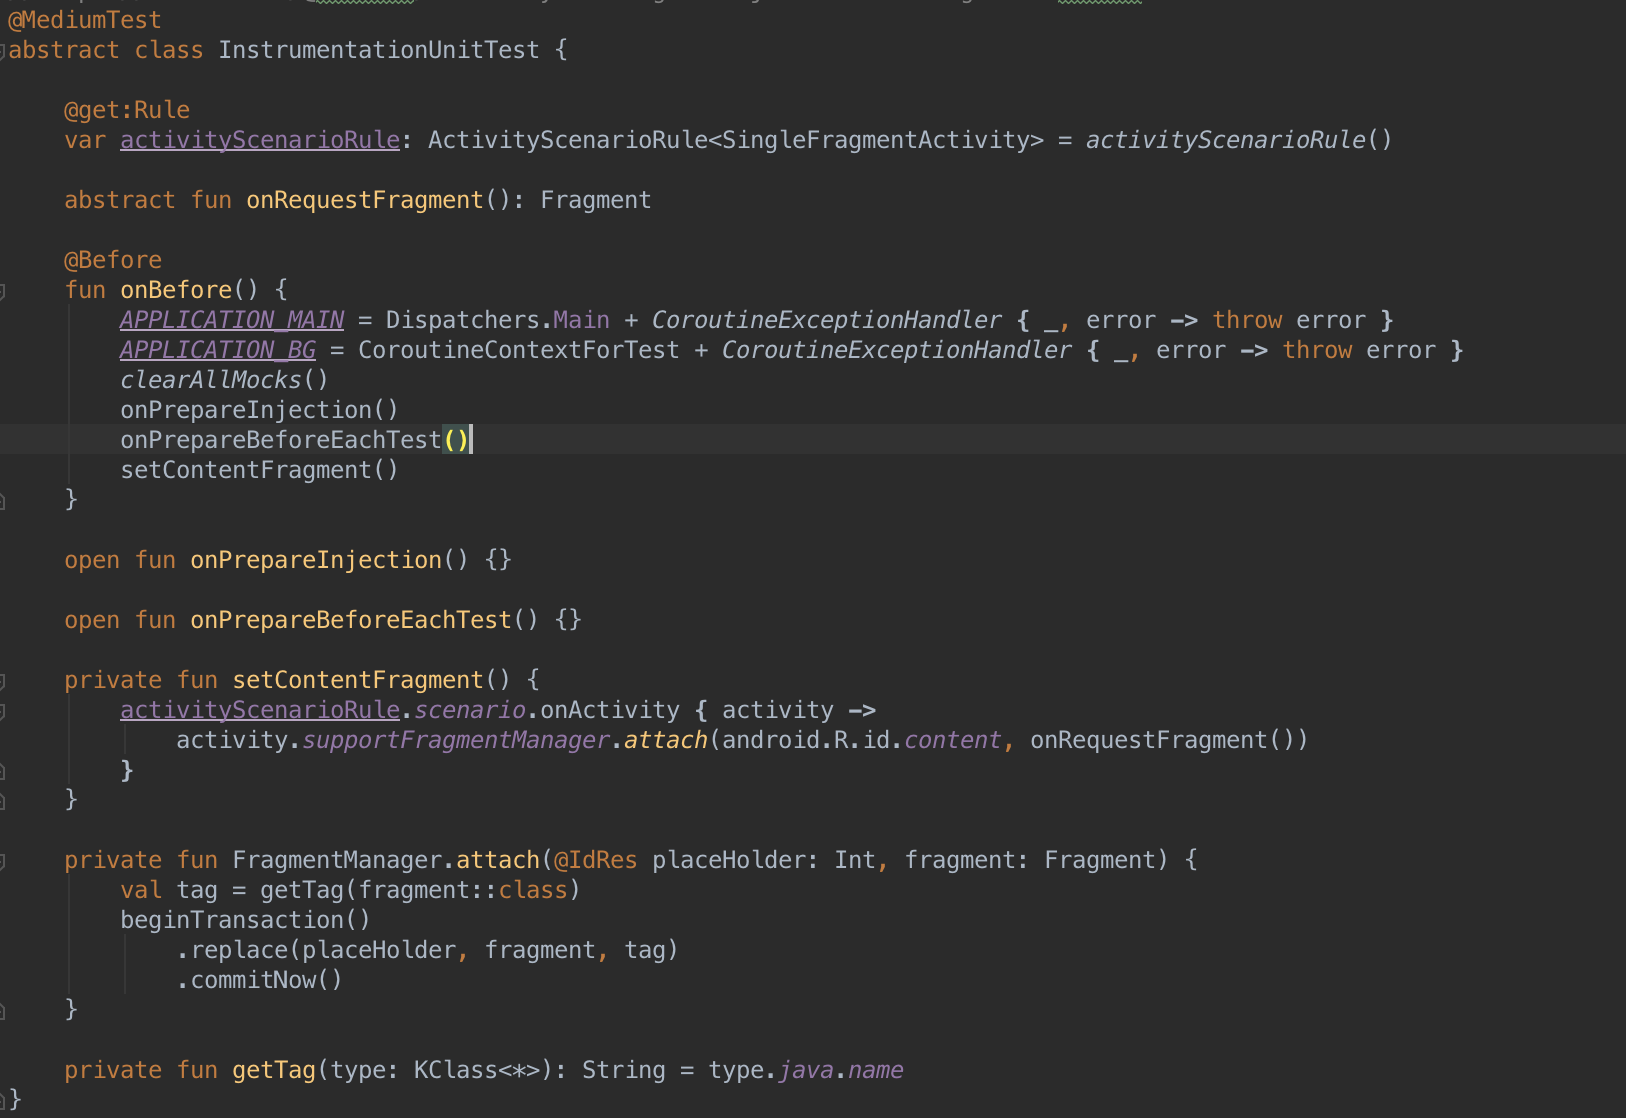
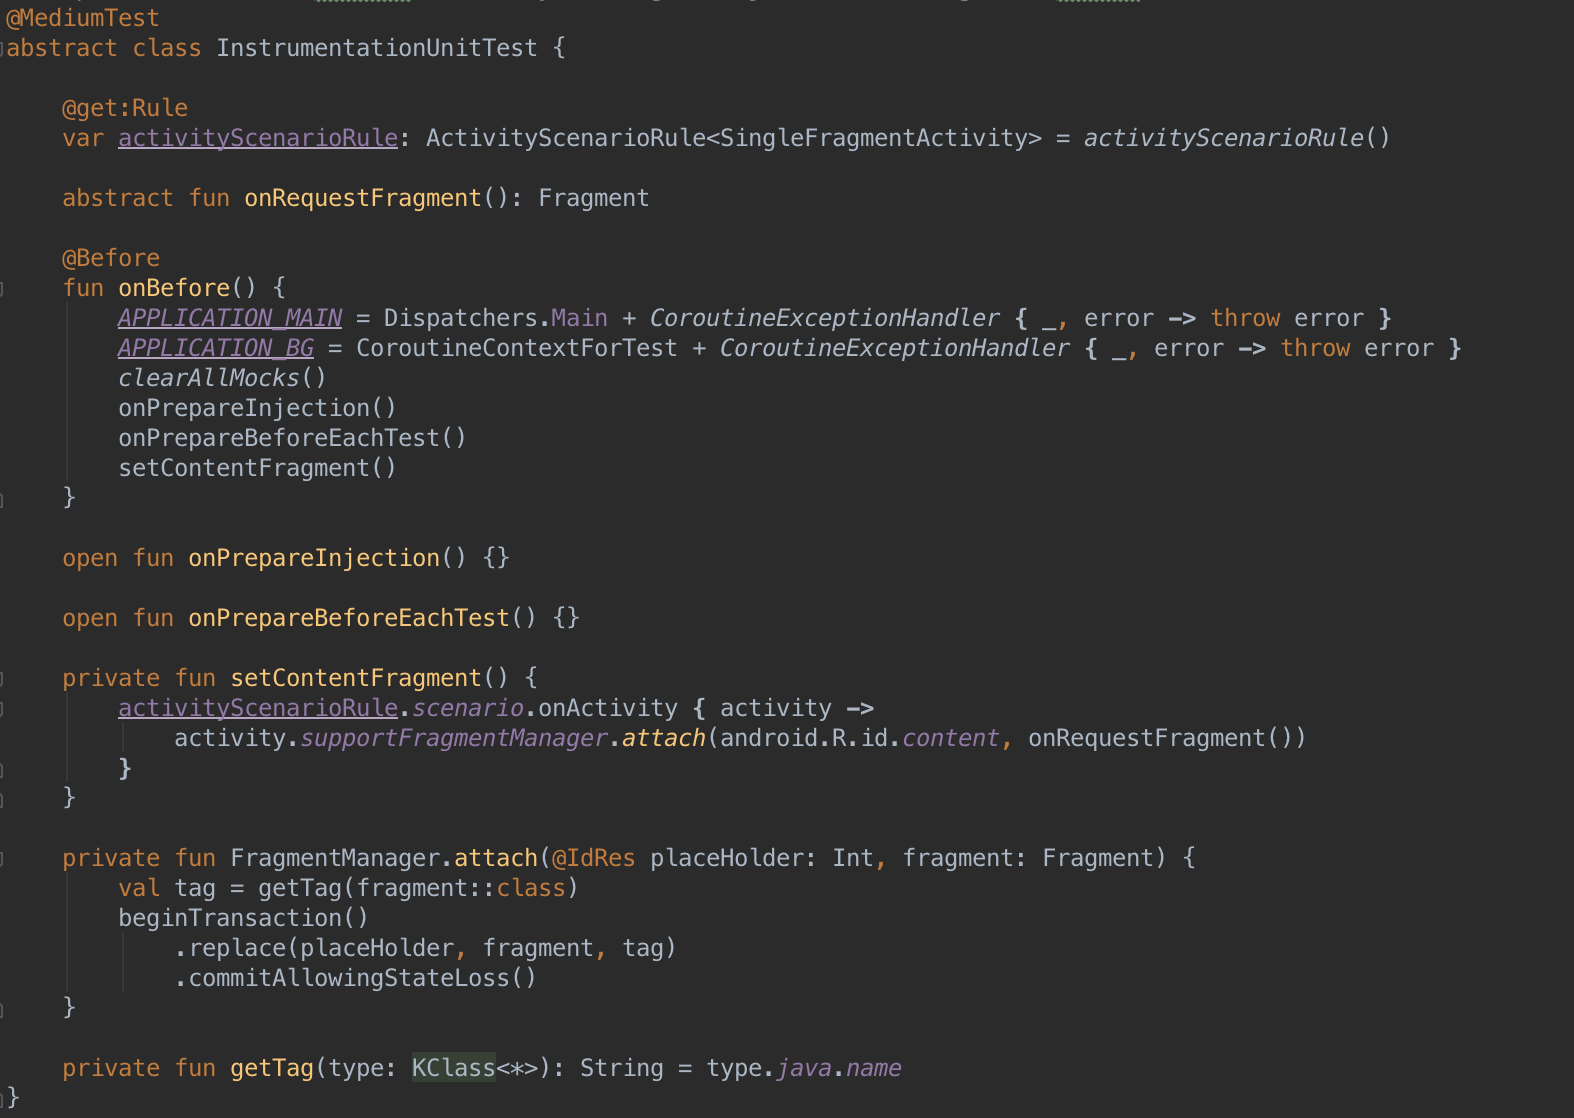
Updated fragment attachment function

diff --git a/infrastructure/core-view-testing/src/main/kotlin/eu/antoniolopez/playground/core/view/testing/InstrumentationUnitTest.kt b/infrastructure/core-view-testing/src/main/kotlin/eu/antoniolopez/playground/core/view/testing/InstrumentationUnitTest.kt
@@ -50,7 +50,7 @@ abstract class InstrumentationUnitTest {
         val tag = getTag(fragment::class)
         beginTransaction()
             .replace(placeHolder, fragment, tag)
-            .commitNow()
+            .commitAllowingStateLoss()
     }
 
     private fun getTag(type: KClass<*>): String = type.java.name
